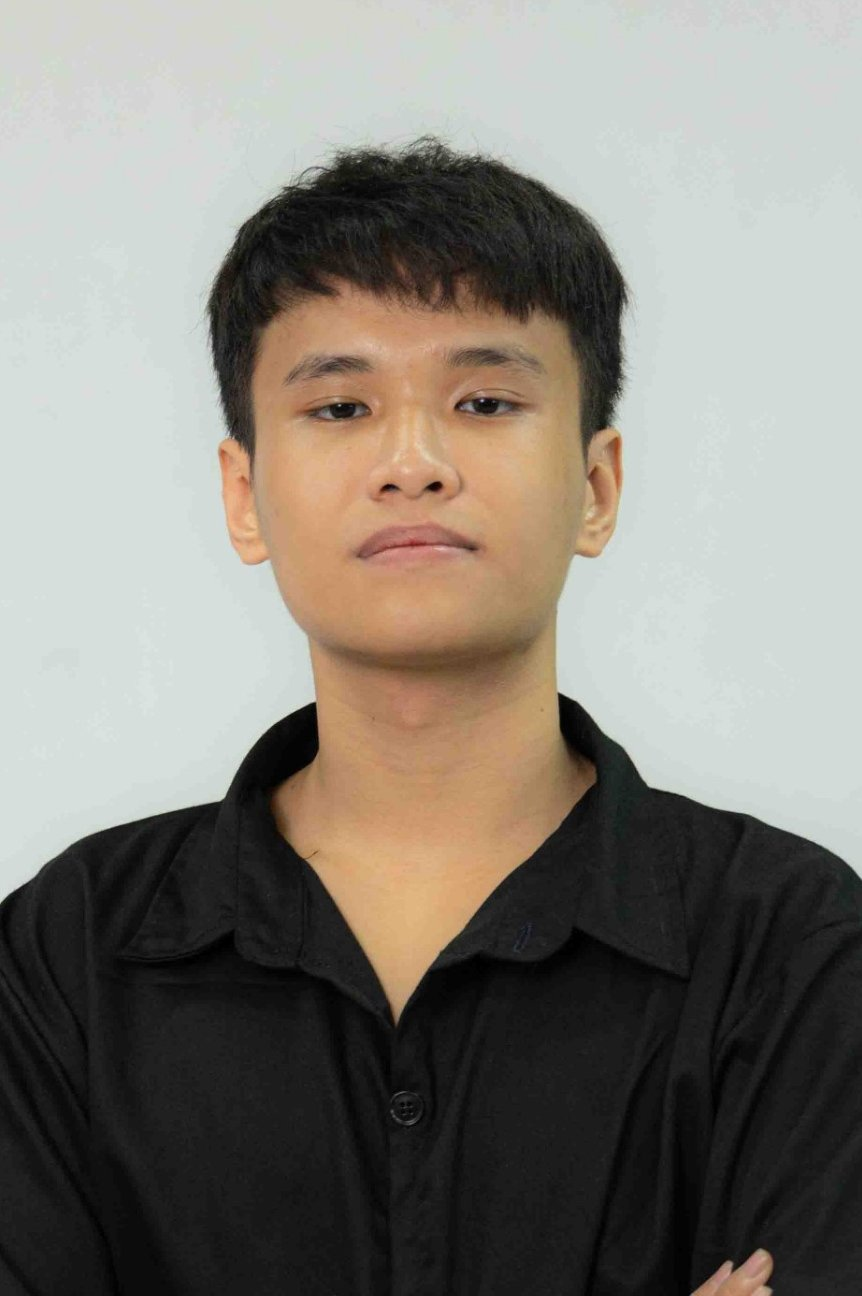
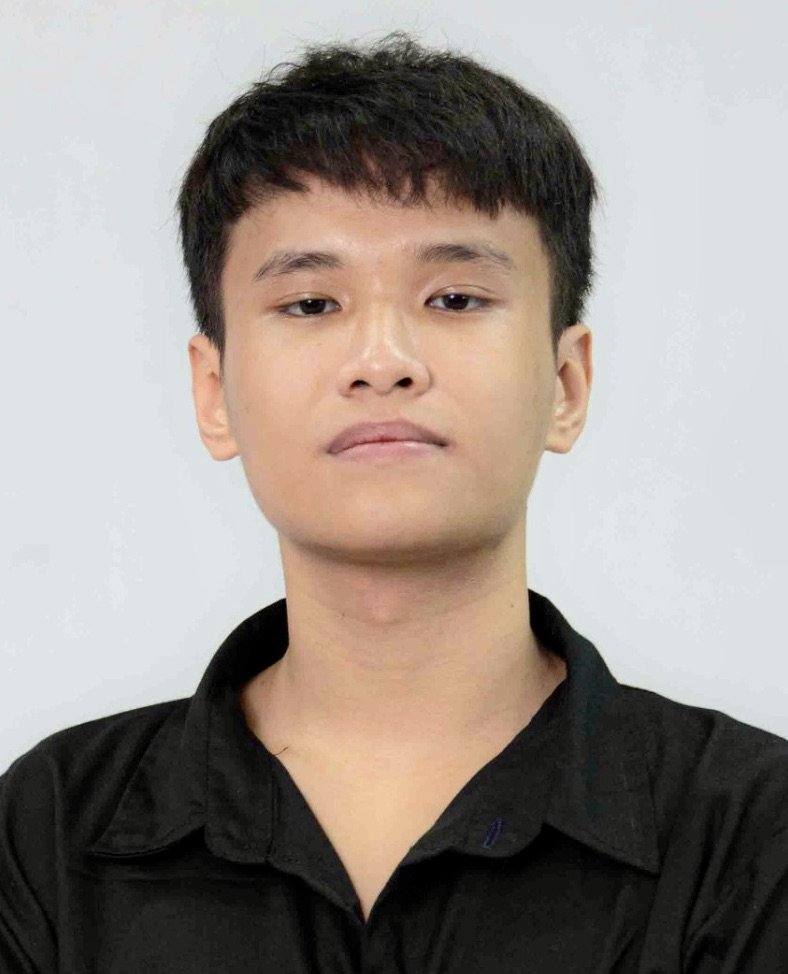
modified:   _includes/repository/repo_user.liquid 	modified:   _pages/about.md 	modified:   assets/img/prof_pic.jpg 	deleted:    assets/img/prof_pic.png

diff --git a/_pages/about.md b/_pages/about.md
@@ -17,6 +17,6 @@ selected_papers: false # includes a list of papers marked as "selected={true}"
 social: true # includes social icons at the bottom of the page
 ---
 
-**Short Bio:** My name is **<i>Nguyễn Minh Trung</i>** - Vietnamese. I am currently a second-year Student at Department of Computing Fundamental, <a href="https://fpt.edu.vn">FPT University</a>, Viet Nam. Curently I am working as an AI researcher under the supervision of Dr. <a href="https://dnmduc.github.io/">Duc Ngoc Minh Dang</a>.
+**Short Bio:** My name is **<i>Nguyễn Minh Trung</i>** - Vietnamese. I am currently a second-year Student at Department of Computing Fundamental, <a href="https://fpt.edu.vn">FPT University</a>, Viet Nam. Curently I am working as an AI researcher under the supervision of <a href="https://dnmduc.github.io/">Dr. Duc Ngoc Minh Dang</a>.
 
 **Research Interests:** Artificial Intelligence, Computational Intelligence, Deep Learning, Machine Learning.
